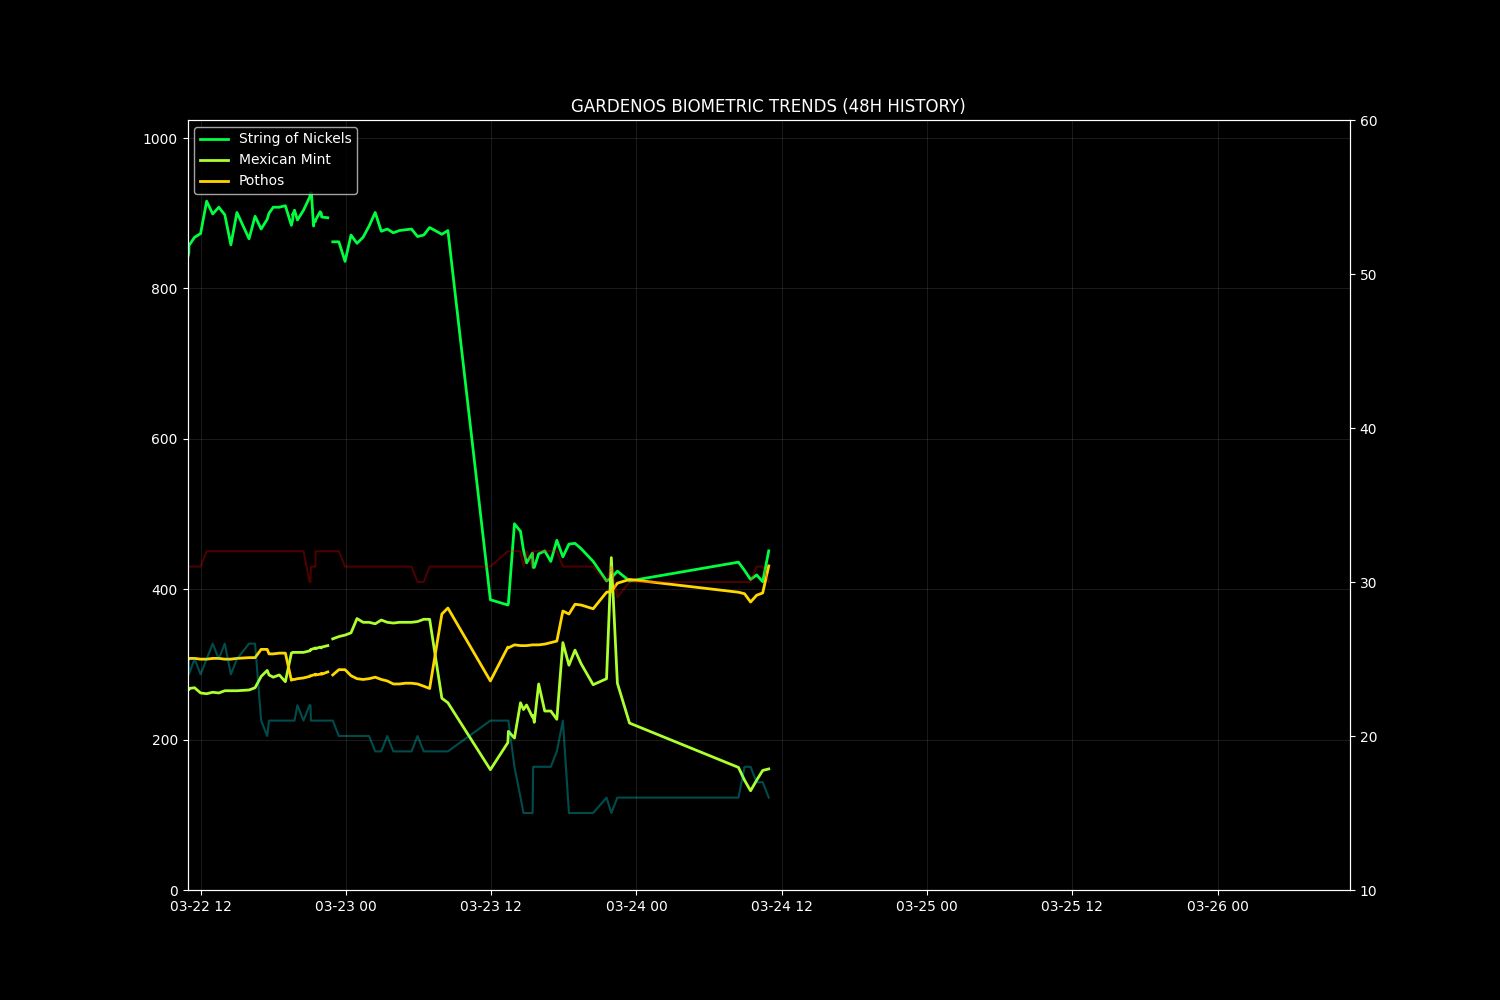
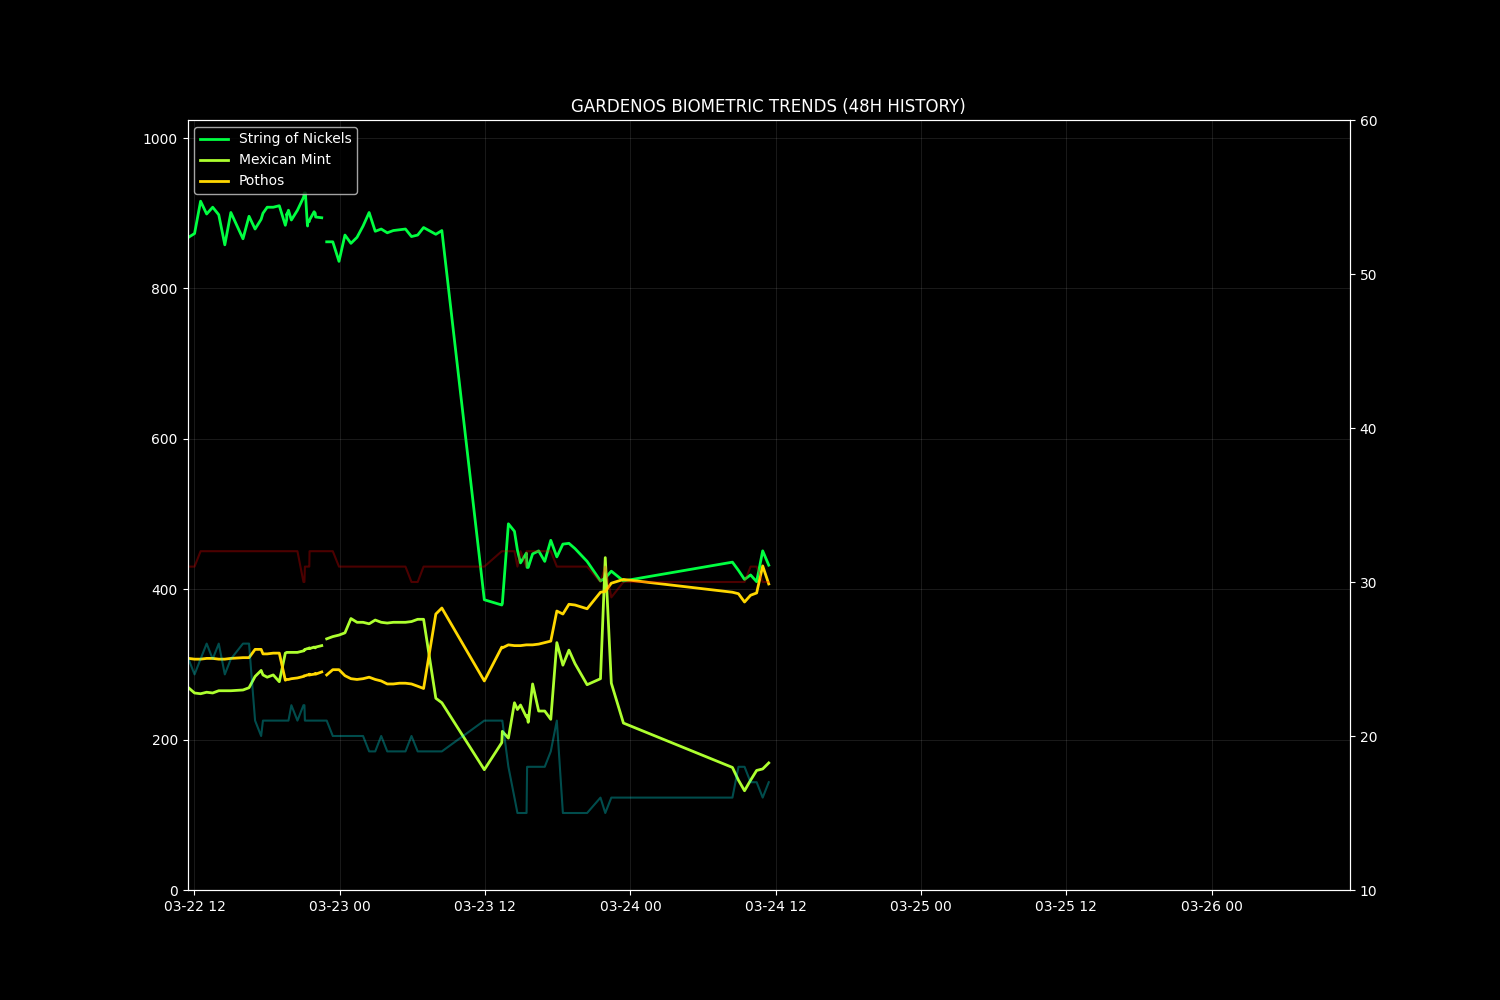
Warden Cycle: 2026-03-24 11:25:29

diff --git a/docs/data/observer_context.md b/docs/data/observer_context.md
@@ -1,21 +1,21 @@
 # 📝 Garden Observer Context
-**Generated:** 2026-03-24 09:58:01
+**Generated:** 2026-03-24 10:58:01
 
 ## 1. 🌡 Recent Telemetry (Last 12 Readings)
 ```csv
 timestamp,temp,hum,light,p1,p2,p3
-2026-03-24 08:55:28,30.0,18.0,704,425.0,146.0,394.0
-2026-03-24 09:25:28,30.0,18.0,544,413.0,132.0,383.0
 2026-03-24 09:55:28,31.0,17.0,554,419.0,146.0,392.0
+2026-03-24 10:25:28,31.0,17.0,500,410.0,159.0,395.0
+2026-03-24 10:55:28,30.0,16.0,499,451.0,161.0,431.0
 
 ```
 
 ## 2. 📊 Computed Metrics (Last 12 Calculations)
 ```csv
 timestamp,vpd,p1_pct,p1_slope,p2_pct,p2_slope,p3_pct,p3_slope,p4_pct,p4_slope,p5_pct,p5_slope,p6_pct,p6_slope,p1_is_dry,p2_is_dry,p3_is_dry
-2026-03-24 08:55:28,3.479,92.6,,100.0,,79.8,,,,,,,,False,False,False
-2026-03-24 09:25:28,3.479,96.3,,100.0,,82.9,,,,,,,,False,False,False
 2026-03-24 09:55:28,3.729,94.5,,100.0,,80.3,,,,,,,,False,False,False
+2026-03-24 10:25:28,3.729,97.2,,100.0,,79.5,,,,,,,,False,False,False
+2026-03-24 10:55:28,3.564,84.7,,100.0,,69.2,,,,,,,,False,False,False
 
 ```
 
